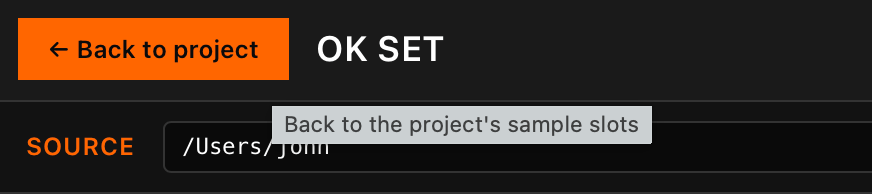
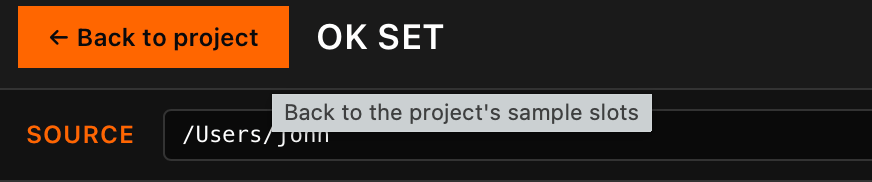
fix: update screenshot

diff --git a/user-guide/docs/features/sample-slots.md b/user-guide/docs/features/sample-slots.md
@@ -101,7 +101,7 @@ When a project belongs to a Set that has an `AUDIO/` pool, an **Audio Pool toggl
 
 <div style={{display: 'flex', gap: '0.75rem', alignItems: 'flex-start', justifyContent: 'center'}}>
   <img src={require('@site/static/img/screenshots/sample-slots-open-pool-page.png').default} alt="Open the Audio Pool page for this Set" style={{width: '36%'}} />
-  <img src={require('@site/static/img/screenshots/sample-slots-back-to-project.png').default} alt="Back to project button" style={{width: '47%'}} />
+  <img src={require('@site/static/img/screenshots/sample-slots-back-to-project.png').default} alt="Back to project button" style={{width: '45%'}} />
 </div>
 
 ### Assigning samples to slots